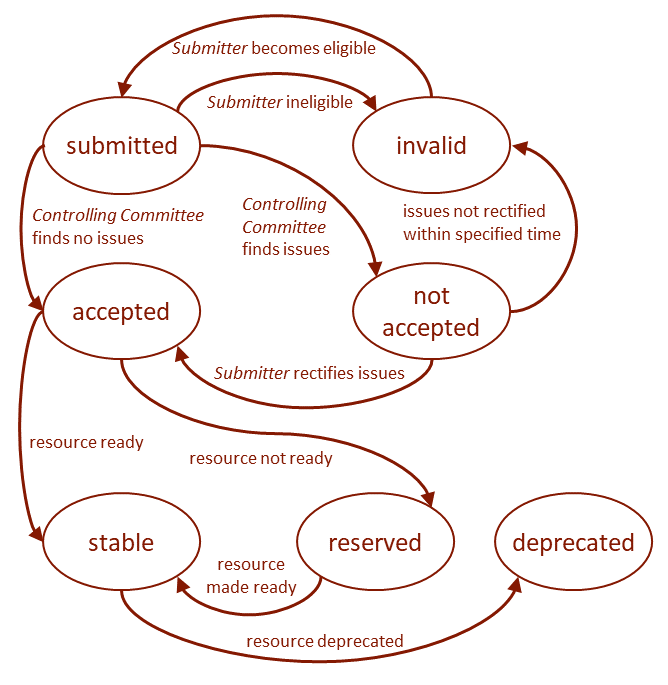
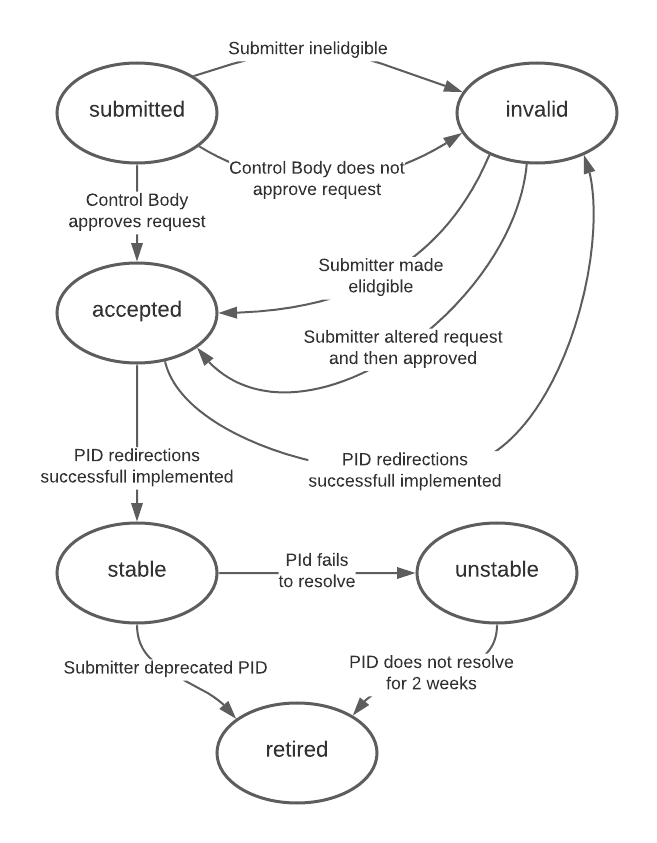
more 2.2. updates

diff --git a/PID-IRI-Guidelines-v2.2.md b/PID-IRI-Guidelines-v2.2.md
@@ -6,26 +6,27 @@
 \* <nicholas.car@surroundaustralia.com>  
 ** [www.linked.data.gov.au/contact](https://www.linked.data.gov.au/contact)
 
-## Preface
+## 1. Preface
 This document describes how the Australian Government Linked Data Working Group (AGLDWG) assess requests for and allocates persistent IRIs for Linked Data dataset, definitional resources and registers. It builds on both international public sector Linked Data IRI allocation guidance, such as the United Kingdom's "Designing URI Sets for the UK Public Sector" [[CAB-2010](#ref-CAB-2010)], and the AGLDWG's own 7+ year's experience with persistent IRI allocation.
 
-## Table of Contents
+## 2. Table of Contents
 1. [Preface](#Preface)
-2. [Changelog](#Changelog)
-3. [Conformance](#Conformance)
-4. [Introduction](#Introduction)
-5. [Persistent domain](#PersistentDomain)
-6. [IRI Registration](#PIDIRIRegistration)
-7. [Resource Types](#ResourceTypes)  
-    7.1. [Datasets](#Datasets)  
-    7.2. [Definitional Resources](#Definitional)  
-    7.3. [Top-Level Registers](#TopLevelRegisters)  
-    7.4. [Second-Level Registers](#SecondLevelRegisters)  
-8. [References](#References)
-9. [Appendix A: Resource Linked Data requirements](#app-a)
-10. [Appendix B: Resource register resource metadata](#app-b)
+2. [Table of Contents](#TableOfContents)
+3. [Changelog](#Changelog)
+4. [Conformance](#Conformance)
+5. [Introduction](#Introduction)
+6. [Persistent domain](#PersistentDomain)
+7. [IRI Registration](#PIDIRIRegistration)
+8. [Resource Types](#ResourceTypes)  
+    8.1. [Datasets](#Datasets)  
+    8.2. [Definitional Resources](#Definitional)  
+    8.3. [Top-Level Registers](#TopLevelRegisters)  
+    8.4. [Second-Level Registers](#SecondLevelRegisters)  
+9. [References](#References)
+10. [Appendix A: Resource Linked Data requirements](#app-a)
+11. [Appendix B: Resource register resource metadata](#app-b)
 
-## Changelog
+## 3. Changelog
 This version of the document contains the following changes to the 2.1 version of the *Guidelines*: 
 
 1. use of IS0 19135 [[ISO-2014](#ref-ISO-2014)] for IRI registration procedure and roles, instead of ISO 11179 [[ISO-2015](#ref-ISO-2015)]
@@ -39,7 +40,7 @@ For further context around this document and it's use, please see the AGLDWG's *
 
 * [www.linked.data.gov.au/governance](https://www.linked.data.gov.au/governance)
 
-## 1. <a id="Conformance"></a> Conformance
+## 4. <a id="Conformance"></a> Conformance
 The key words *MUST*, *MUST NOT*, *REQUIRED*, *SHOULD*, *SHOULD NOT*, *RECOMMENDED*, *MAY*, and *OPTIONAL* in this document are to be interpreted as defined in [[IETF-1997](#ref-IETF-1997)].
 
 Roles associated with this register, *Register Owner*, *Submitter* *Submitting Organization*, *Control Body*, *Register Manager*, *Registry Manager* and *Register User*, are to be interpreted as defined in the AGLDWG's 'Registry Roles Vocabulary' [[AGLDWG-2021](#ref-AGLDWG-2021)] which is an interpretation of the roles defined in [[ISO-2014](#ref-ISO-2014)], with some small extensions.
@@ -48,22 +49,22 @@ Statuses for resources in the register are *accepted*, *deprecated*, *retired*, 
 
 IRI patterns are expressed using Augmented Backus-Naur Form, as defined in [[IETF-2008](#ref-IETF-2008)].
 
-## 2. <a id="Introduction"></a>Introduction    
+## 5. <a id="Introduction"></a>Introduction    
 Government published, public sector information (PSI), usually about the things agencies are responsible for, is intended to be re-used by many, perhaps initially unknown, applications over time. This is to maximise its value to the nation and this aim is communicated in many places, such as the Productivity Commission's "Data Availability and Use" report of 2017 [[PC-2017](#ref-PC-2017)]. For this reason, it is important that elements PSI are able to be identified and accessed in consistent ways for long periods, perhaps multiple decades.
 
 Government departments and agencies often assign identifiers to many digital PSI things and non-public information resources they are responsible for - e.g. datasets, classification concepts, hospitals, equipment, client interactions. These identifiers are then used when referring to or making statements about particular things. For example, when referring to a road closure, the identifier (e.g. "M5") will be used to inform the public or when referring to a particular census Mesh Block, its Australian bureau of Statistics-issued identifier, perhaps "80006300000" will be used. These identifiers might be well known but are most often not actionable, i.e. they cannot be easily used to discover information about the thing they identify, even if it exists, in standard ways.
 
 The Australian Government Linked Data Working Group (AGLDWG) advocates the use of Linked Data [[W3C-2018](#ref-W3C-2018)] as a particular set of technologies to be used for Internet-distributed, machine-readable data and, due to this, advocates the use of Internationalized Resource Identifiers (IRIs) as identifiers for things. The use of IRIs as item identifiers greatly improves their accessibility and can also improve their endurance.
 
-### 2.1 Internationalized Resource Identifiers (IRIs)
+### 5.1 Internationalized Resource Identifiers (IRIs)
 Linked Data uses IRIs which are part of a single, global, identification system used on the World Wide Web, similar to telephone numbers in a public switched telephone network. We are all familiar with IRIs at work - often referred to by older names of *Uniform Resource Identifier* (URI) or *Uniform Resource Locator* (URL) - due to their use for addresses in browsers for web pages. IRIs are a key technology supporting Linked Data offering a generic, universal and infinitely expandable mechanism to identify *things*. In order to publish data in a Linked Data fashion, government needs to represent the identifiers they use for things using IRIs.
 
 Sir Tim Berners-Lee, who created many aspects of the World Wide Web we now take for granted, defined principles for the use of IRIs with Linked Data [[TBL-2009](#ref-TBL-2006)]. This document builds on those principles which, summarised, are:
 
-#### 2.1.1. Use HTTP IRIs
+#### 5.1.1. Use HTTP IRIs
 Addressing two of the four principles, *'use URIs'* and *'use HTTP URIs'*, governments and their agencies publishing Linked Data ***MUST*** provide HTTP IRIs as identifiers for resources, in order to support reuse and data integration/linking on the Web in a Linked Data fashion. HTTP IRIs enable IRIs to be "looked-up" or "dereferenced", which in turn provides access, via a Web browser, to  representations of the resource identified by these IRIs.
 
-#### 2.1.2. Provide a machine-readable representation of the resource identified by the IRI
+#### 5.1.2. Provide a machine-readable representation of the resource identified by the IRI
 In order to enable HTTP IRIs to be "dereferenceable", data publishers may have to set up the necessary infrastructure (e.g. DNS & HTTP servers) to serve representations or descriptions of resources (e.g. a human-readable HTML representation or a machine-readable RDF/XML representation). For a resource to be considered Linked Data, a publisher ***MUST*** publish it using RDF and ***MUST*** publish at least one machine-readable representation of it (e.g. RDF/XML, JSON-LD, Turtle) via the HTTP IRI identifying the resource.
 
 Requirement | Description | Conformance
@@ -71,12 +72,12 @@ Requirement | Description | Conformance
 <a id="req-1"></a>[Req 1] | Use HTTP IRIs for Linked Data resources | ***MUST***
 <a id="req-2"></a>[Req 2] | Provide at least one machine-readable representation in RDF at a resource's IRI. | ***MUST***
 
-#### 2.1.3 IRI persistence
+#### 5.1.3 IRI persistence
 Much thought has gone into ensuring that IRIs for things can be made to keep working for a long time, starting with their technical design to avoid specific technology dependence (addressed by [[TBL-2009](#ref-TBL-2006)] and for Linked Data use in [[W3C-2008](#ref-W3C-2008)]) and extending to the governance arrangements for them to avoid, or at least make more resilient, their social systems dependence. Principles for successful persistent identifier (PID) generation are articulated in papers such as "The challenge of ensuring persistency of identifier systems" [[CAR-2017](#ref-CAR2-17)] which, among other things, advocates for the use of organisationally-independent identifiers.
 
 Beyond confirming adherence to these principles, the AGLDWG provides instruction on how to create IRIs for certain kinds of resources according to IRI construction best practice [[W3C-2012](#ref-W3C-2012)] and also provides a government organisation-independent namespace for them to use: `linked.data.gov.au`. This namespace, an internet domain, is managed by the AGLDWG.
 
-## 3. <a id="PersistentDomain"></a>Persistent Domain
+## 6. <a id="PersistentDomain"></a>Persistent Domain
 The AGLDWG has dedicated the IRI domain `linked.data.gov.au` to IRI persistent identifiers (PIDs) for Linked Data resources. This is to be able to supply infinitely many PIDs using a domain that is not coupled to a particular agency's name or function, for example `dfat.gov.au` which is coupled to the Department of Foreign Affairs and Trade (DFAT). Agency names and functions change over time and are thus domains based on them are not persistent. The use of `linked.data.gov.au` is protected by a Memorandum of Understanding signed by the managing agency, the Digital Transformation Agency and 5 agencies interested in Linked Data [[AGLDWG-2018](#ref-AGLDWG-2018)] which came into effect in May, 2018. The MoU requires any proposed changes to the management or use of the domain to be mooted amongst the MoUs signatories.
 
 Requirement | Description | Conformance
@@ -89,7 +90,7 @@ The AGLDWG maintains a public register of requests for PIDs within `linked.data.
 
 * [catalogue.linked.data.gov.au](https://catalogue.linked.data.gov.au)
 
-### 3.1 Previously used domains
+### 6.1 Previously used domains
 The AGLDWG maintains two legacy persistent domains:
 
 1. `environment.data.gov.au`
@@ -97,23 +98,23 @@ The AGLDWG maintains two legacy persistent domains:
 
 These two domains contains persistent identifiers minted in 2013 - 2018. Resources allocated PIDs within them appear in the resource register ([catalogue.linked.data.gov.au](http://catalogue.linked.data.gov.au)) and will be maintained indefinitely, however no new PIDs will be allocated using these legacy domains.
 
-### 3.1 Test domain
+### 6.2 Test domain
 The AGLDWG maintains a dedicated testing domain, `test.linked.data.gov.au`. *Submitting Organizations* (see role definition below) may request use of this domain to test redirection mechanics for PID before seeking a PID allocation using `linked.data.gov.au`.
 
-### 3.2 Other domains
+### 6.3 Other domains
 The AGLDWG maintains further subdomains of `linked.data.gov.au` for operational reasons such as website hosting (`www.linked.data.gov.au`) and resource cataloguing (`catalogue.linked.data.gov.au`). These domains, while maintained by the AGLDWG are not to be considered persistent.
 
-## 4. <a id="PIDRegistration"></a>PID Registration
+## 7. <a id="PIDRegistration"></a>PID Registration
 Due to the central management by the AGLDWG of the `linked.data.gov.au` resource and its requirement to be shared among many agencies, PIDs allocated using it need to be registered to avoid collisions (agencies wanting the same PIDs for different things) and also anonymous orphans (PIDs once registered which become non-functional and for which ownership information is lost). Previous approaches to PID allocation by the AGLDWG that did not require registration resulted in ungoverned PIDs.
 
 The AGLDWG notes item registration is both commonplace for shared government resources (viz. registration of datasets within [data.gov.au](https://data.gov.au)) and also for IRI-based identifiers (viz. [purl.org](http://purl.org) and [w3id.org](https://w3id.org/)).
 
 The AGLDWG requires all allocated PIDs to be registered provides guidance below on what types of PIDs may be registered, and the process for registration, including information required from registrants.
 
-Registration processes (Section 6.2, 7.2 & 8.2 below) follow those of "ISO 19135 Geographic information — Procedures for item registration ISO/DIS 19135-1",[[ISO-2014](#ref-ISO-2014)] with the assignment of resource status of *accepted* (see Section 4.3) being the necessary and sufficient criteria for the technical implementation of an IRI redirection for the PID.
+Registration processes (Section 6.2, 7.2 & 8.2 below) follow those defined in "ISO 19135 Geographic information — Procedures for item registration ISO/DIS 19135-1", [[ISO-2014](#ref-ISO-2014)] with the assignment of resource status of *accepted* (see Section 4.3) being the necessary and sufficient criteria for the technical implementation of an IRI redirection for the PID.
 
-### 4.1 Registration roles
-People requesting PIDs are *Submitters*, acting on behalf of an organisation, fullfilling the role of a *Submitting Organization*. These organisations are often, but do not have to be, members organisations of the AGLDWG. See [www.linked.data.gov.au/join](https://www.linked.data.gov.au/join) for more information about joining the AGLDWG.
+### 7.1 Registration roles
+People requesting PIDs are *Submitters*, acting on behalf of an organisation which fullfills the role of a *Submitting Organization*. These organisations are often, but do not have to be, members organisations of the AGLDWG. See [www.linked.data.gov.au/join](https://www.linked.data.gov.au/join) for more information about joining the AGLDWG.
 
 The AGLDWG as a whole plays the role of *Register Owner* with the *Register* being the list of all PIDs requested and allocated for `linked.data.gov.au`. The co-chairs of the AGLDWG play the role of *Register Manager* and perform most register management actions on behalf of the AGLDWG. A *Control Body* consisting of AGLDWG member organisation's representatives conduct reviews of PID requests, as delegated by the co-chairs. The technical management of the register and the associated IRI redirection system is conducted by AGLDWG members in the role of *Registry Manager* at the behest of the *Registery Manager*.
 
@@ -132,21 +133,16 @@ Role | Group
 *Submitter* | persons acting on behalf of a *Submitting Organization*
 *Register User* | Everyone not listed above using the Register
 
-### 4.2 Registration workflow
-The processing of items for which PIDs are requested follow workflows. The general workflow for item processing is given in Figure 1.
+### 7.2 Registration workflows
 
-![](workflow-approval.png)  
-**Figure 1**: Workflow diagram showing the general workflow for the approval processing of PID IRI allocation requests. Approval statuses are marked.
+The processing of items for which PIDs are requested follow workflows, as do other actions such as to move a Registered Item from *stable* to another state. 
 
-A more detailed workflow for resource review is given in Figure 2.
+#### 7.2.1 Item Registration Workflow
 
-![](workflow-review.png)  
-**Figure 2**: Workflow diagram showing detailed steps within the resource review workflow. Approval statuses are marked.
+The Item Registration Workflow for registered item request processing is given in Figure 1.
 
-A more detailed workflow showing PID IRI implementation is given in Figure 3.
-
-![](workflow-implementation.png)  
-**Figure 3**: Workflow diagram showing detailed steps within the PID IRI implementation workflow. Approval statuses are marked.
+<a href="workflow-approval.png"><img src="workflow-approval.png" style="width: 50%" /></a><br />
+**Figure 1**: Workflow diagram showing the general workflow for the processing of PID IRI allocation requests which usually leads to item registration. Approval statuses are marked. The previous, ISO11179-based version of this workflow for Guidlines v1.1 and previous is retained in the file [workflow-approval-old.png](workflow-approval-old.png).
 
 Notes on specific workflows per resource type are given below in Sections 6 - 9.
 
@@ -154,13 +150,29 @@ Requirement | Description | Conformance
 ---|---|---
 <a id="req-4"></a>[Req 4] | Submitters requesting PIDs must follow the AGLDWG's PID IRI allocation workflows and submit their requests to the Linked Data PID Register | ***MUST***
 
-### 4.3 Approval status
-An item's acceptance for PID allocation is indicated with a *status*, terms for which are taken from the Registry Ontology's status vocabulary. The original publication of this vocabulary is [[REY-2012](#ref-REY-2012)] and the AGLDWG has republished it at [[AGLDWG-2018b](#ref-AGLDWG-2018)]) to enable better visibility. The status vocabulary term hierarchy is:
+#### 7.2.2 Item Deprecation Workflow
+
+The Item Deprecation Workflow for registered item request processing is described as follows:
+
+* IF a registered PID with status*stable* failes to resolve during a routine resolution test
+* THEN
+   * the PID *submitter* is notified
+   * a 2 week countdown is initiated
+   * the PID's status is changed to *unstable*
+
+* IF a PID fails to resolve for a 2 week period
+* THEN
+    * the PID *submitter* is notified
+    * the PID's status is changed to *retired*
+
+### 7.3 Registered Item Status
+An item's status within the Register is indicated with a *status*, terms for which are mostly taken from the Registry Ontology's status vocabulary. The original publication of this vocabulary is [[REY-2012](#ref-REY-2012)] and the AGLDWG has republished it at [[AGLDWG-2018b](#ref-AGLDWG-2018)]) to enable better visibility. The status vocabulary term hierarchy is:
 
 * [accepted](https://linked.data.gov.au/def/status/accepted)
   * [deprecated](https://linked.data.gov.au/def/status/deprecated)
     * [retired](https://linked.data.gov.au/def/status/retired)
     * [superseded](https://linked.data.gov.au/def/status/superseded)
+    * [unstable](https://linked.data.gov.au/def/status/unstable)
   * [valid](https://linked.data.gov.au/def/status/valid)
     * [experimental](https://linked.data.gov.au/def/status/experimental)
     * [stable](https://linked.data.gov.au/def/status/stable)
@@ -169,17 +181,17 @@ An item's acceptance for PID allocation is indicated with a *status*, terms for 
   * [reserved](https://linked.data.gov.au/def/status/reserved)
   * [submitted](https://linked.data.gov.au/def/status/submitted)
 
- A state diagram of resources' statuses is given in Figure 4 below.
+ A state diagram of resources' statuses is given in Figure 2 below.
 
 ![](status-states.png)  
-**Figure 4**: State diagram showing status states of a resource and actions causing state change.  
+**Figure 2**: State diagram showing status states of a resource and actions causing state change.  The Status States Diagram for Guidlines v1.1 and previous is retained in the file [status-states-old.png](status-states-old.png).
 
-Following Figure 4, it can be seen that minimal successful path for a resource from first PID IRI request to operational implementation is:
+Following Figure 2, it can be seen that minimal successful path for a resource from first PID IRI request to operational implementation is:
 
 `submitted -> accepted -> stable`
 
 
-## 5. <a id="ResourceTypes"></a>Resource Types
+## 8. <a id="ResourceTypes"></a>Resource Types
 Presently the AGLDWG recognises four types of items for which PIDs may be requested:
 
 1. Dataset
@@ -189,16 +201,16 @@ Presently the AGLDWG recognises four types of items for which PIDs may be reques
 
 There is an additional resource type, *Organisation*, for which IRIs are created automatically - to identifier AGLDWG member organisations.
 
-More types of items may be added in the future. Such an addition will require this document to be updated.
+More types of items may be added in the future. Such additions would require this document to be updated.
 
 IRIs for Datasets are created within the *Dataset Register*, for definitional resources within the *Def Register* and for Top-Level Register items within the *Top-Level Register*. This Top-Level Register contains the Dataset Register, the Def Register and the Organisations Register as subregisters. Second-Level Register items are created as registers within individual Datasets or as modules within Top-Level Registers, as detailed in [Section 9](#9-second-level-register-IRIs).
 
 The next four sections of this document describe how IRIs for the four type of items for which they may be requested are formulated and the processes to apply for them.
 
-#### NOTE types implemented 
-_After 2+ years of operations of these *Guidelines* in their present form, from pre-2018 to 2020, no allocations of IRIs for resource types other than Dataset or Definitional Item have been made. This does not mean that allocations for other resource types cannot be made but that the community has so far not found pressing use for resources other than Dataset or Definitional Item. The Top-Level Register guidance here is retained without afferming its expected use: it is a technical possibility with international precedence for use (see [[CAB-2010](#ref-CAB-2010)]) and the AGLDWG may, or may not, choose to allow Top-Level Register registration in the future._
+> NOTE: types implemented  
+> _After 2+ years of operations of these *Guidelines* in their present form, from pre-2018 to 2020, no allocations of IRIs for resource types other than Dataset or Definitional Item have been made. This does not mean that allocations for other resource types cannot be made but that the community has so far not found pressing use for resources other than Dataset or Definitional Item. The Top-Level Register guidance here is retained without afferming its expected use: it is a technical possibility with international precedence for use (see [[CAB-2010](#ref-CAB-2010)]) and the AGLDWG may, or may not, choose to allow Top-Level Register registration in the future._
 
-### 7.1. <a id="Datasets"></a>Datasets
+### 8.1. <a id="Datasets"></a>Datasets
 Dataset can have IRIs that identify the dataset as a whole. These IRIs are somewhat analogous to the IRIs used to indicate datasets in the [data.gov.au](https://data.gov.au) catalogue (e.g. <https://data.gov.au/dataset/rottnest-ferries-underway-temperature> indicating the "Rottnest Ferries Underway Temperature" dataset) but they have more requirements placed on them in order to perform more functions, specifically Linked Data functions. The main such function concerns dataset-specific namespaces: where IRIs for datasets in `data.gov.au` resolve to a landing page about the dataset and give access to its metadata and links to distributions of it, `linked.data.gov.au` dataset IRIs both link to metadata and also act as a top-level register for items within the dataset. This allows, `linked.data.gov.au` dataset IRIs to be used as dataset-specific namespace domains which can be used to create unique IRIs for sub-dataset items. For example, a Linked Data version of the "Rottnest Ferries Underway Temperature" dataset could have a IRI for each temperature observation which, if delivered at `linked.data.gov.au`, could be something like `https://linked.data.gov.au/dataset/rot-ferry/observation/0026` for an *observation* identified by *0026*. The particular pattern used within `https://linked.data.gov.au/dataset/rot-ferry...` is up to the dataset IRI submitter to determine.
 
 Dataset producers are free to choose the form that their sub-dataset item IRIs take (so-called *hash* or *slash* IRIs (see [[W3C-2016](#ref-W3C-2016)]) however they must deliver both the top-level register of their dataset and all visible subcomponents of it according to Linked Data principles.
@@ -209,7 +221,7 @@ Requirement | Description | Conformance
 
 The tests for what constitutes a valid Linked Data dataset are articulated in [Appendix A](#app-a).
 
-#### 7.1.1. Dataset PID IRI pattern
+#### 8.1.1. Dataset PID IRI pattern
 The pattern for Dataset PIDs is:
 
 ```
@@ -242,7 +254,7 @@ Where the "gnaf" dataset, using slash IRIs for Address subelement "GA1234" could
 
 `https://linked.data.gov.au/dataset/gnaf/address/GA1234`
 
-#### 7.1.2. Registration Process
+#### 8.1.2. Registration Process
 This process follows the general process as outlined in Figure 1.
 
 * *Submitter* must be eligible, as per Req 6
@@ -269,16 +281,16 @@ Requirement | Description | Conformance
 <a id="req-6"></a>[Req 6] | For a particular PID IRI to be allocated, the request for that allocation must be the first request for it that is found eligible | ***MUST***
 
 
-### 7.1.3. Required Metadata
+### 8.1.3. Required Metadata
 Metadata to be supplied for the registration of a Linked Data dataset, and thus the allocation of a IRI for it, must constitute a valid record for a dataset within the AGLDWG Linked Data PID Register. Record validity is determined using the process outlined in [Appendix B](#app-b).
 
 Entries in the AGLDWG Linked Data PID Register are public from submission onwards.
 
 
-### 7.2. <a id="Definitional"></a>Definitional Resources
+### 8.2. <a id="Definitional"></a>Definitional Resources
 Definitional Resources are Linked Data vocabularies, vocabulary terms, ontologies, ontology terms and potentially other, Linked Data, data model items. Currently, as per Datasets, IRI patterning is provided by the AGLDWG at the whole-of-resource level (i.e. whole ontology or whole vocabulary) with IRIs for subcomponents such as vocabulary terms or ontology class definitions to be implemented by the definitional resource managers, at their discretion.
 
-#### 7.2.1. Definitional resource PID IRI pattern
+#### 8.2.1. Definitional resource PID IRI pattern
 The pattern for Definitional PIDs is:
 
 ```
@@ -319,7 +331,7 @@ or, if the `StreetType` codes were modularised within the ontology perhaps:
 
 `https://linked.data.gov.au/def/gnaf/code/StreetTypes/Avenue`
 
-#### 7.2.2. Registration Process
+#### 8.2.2. Registration Process
 This process follows the general process as outlined in Figure 1.
 
 * *Submitter* must be eligible, as per Req 6
@@ -341,13 +353,13 @@ This process follows the general process as outlined in Figure 1.
   * *Submitter* notified
 * *Submitting Organization* is free to use allocated IRIs
 
-#### 7.2.3. Required Metadata
+#### 8.2.3. Required Metadata
 Metadata to be supplied for the registration of a Linked Data definitional resource, and thus the allocation of an IRI for it, must constitute a valid record for such within the AGLDWG Linked Data PID Register. Record validity is determined using the process outlined in [Appendix B](#app-b).
 
 Entries in the AGLDWG Linked Data PID Register are public from submission onwards.
 
 
-### 7.3. <a id="TopLevelRegisters"></a>Top-Level Register IRIs
+### 8.3. <a id="TopLevelRegisters"></a>Top-Level Register IRIs
 Top-Level Registers are an index of individual Linked Data objects, promoted to the 'top' of `linked.data.gov.au` for high visibility. Such registers are formulated using very basic information:
 
 * the identity of the register itself (given via its IRI)
@@ -374,10 +386,10 @@ A multi-class example:
 
 A *Submitting Organization* wishes a top-level register for items of class A and class B. There is some real-world logic making such an allocation sensible so the *Submitting Organization* requests the top-level register `linked.data.gov.au/classAB/` which is approved. A better request though would be for a register of `linked.data.gov.au/classC/` where class C is a superclass of both class A and B.
 
-##### 7.3.0.1. Use and non-use of Register IRI for contained items
+##### 8.3.0.1. Use and non-use of Register IRI for contained items
 A *Submitting Organization* may request a top-level register such as `linked.data.gov.au/classA/` and then present items within that class with IRIs such as `linked.data.gov.au/classA/1`, `linked.data.gov.au/classA/2` etc. but may also present items with un-related IRIs within the register as long as the class of item (discoverable via de-referenceable RDF) accords with the class(es) for which the register was allocated. The AGLDWG may check the classes of items within a top-level register using automated means.
 
-##### 7.3.0.2. Subregisters
+##### 8.3.0.2. Subregisters
 If a *Submitting Organization* wishes to use a top-level register already allocated for new items in accordance with the class(es) for with the register was allocated, they have two options:
 
 1. arrange with the original *Submitting Organization* to have their items included in the register
@@ -385,7 +397,7 @@ If a *Submitting Organization* wishes to use a top-level register already alloca
 
 Modules requested within a top-level register will be presented as sub-registers of the Top-Level Register. Management of such is the responsibility of the Top-Level Register's manager - the original *Submitting Organisation* who was allocated the IRI for it, not the AGLDWG.
 
-#### 7.3.1. Top-Level Register IRI pattern
+#### 8.3.1. Top-Level Register IRI pattern
 The pattern for allocating Top-Level Register IRIs is:
 
 ```
@@ -414,7 +426,7 @@ modularised-register-IRI = register-IRI "/" module-id
 module-id = *(ALPHA / DIGIT / "-")
 ```
 
-#### 7.3.2. Registration Process
+#### 8.3.2. Registration Process
 This process follows the general process as outlined in Figure 1.
 
 * *Submitter* must be eligible, as per Req 6
@@ -434,13 +446,13 @@ This process follows the general process as outlined in Figure 1.
   * *Submitter* notified
 * *Submitting Organization* is free to use allocated IRIs
 
-#### 7.3.3. Required Metadata
+#### 8.3.3. Required Metadata
 Metadata to be supplied for the registration of a Linked Data top-level register, and thus the allocation of a IRI for it, must constitute a valid record for such within the AGLDWG Linked Data PID Register. Record validity is determined using the process outlined in [Appendix B](#app-b).
 
 Entries in the AGLDWG Linked Data PID Register are public from submission onwards.
 
 
-### 7.4. <a id="SecondLevelRegisters"></a>Second-Level Register IRIs
+### 8.4. <a id="SecondLevelRegisters"></a>Second-Level Register IRIs
 At this stage, the AGLDWG recognises there are two sorts of Second-level Registers for which IRIs may be allocated:
 
 1. subregisters of a Dataset
@@ -448,7 +460,7 @@ At this stage, the AGLDWG recognises there are two sorts of Second-level Registe
 
 In both cases, the IRI arrangements for the Second-Level Register IRIs need to be made by the dataset or Top-Level Register manager, however the AGLDWG can assist with implementing redirects for these subregisters within the patterning assigned to a Dataset or Top-Level Register, if requested. Such pattern implementation will follow the workflow given in Figure 3 but will not result in any change to the relevant allocation status of the Dataset or Top-Level Register.
 
-## 8. <a id="References"></a>References
+## 9. <a id="References"></a>References
 [AGLDWG-2018] <a name="ref-AGLDWG-2018"></a>Australian Government Linked Data Working Group "Governance", web page, 2018. <https://www.linked.data.gov.au/governance>, accessed 2018-07-27.
 
 [AGLDWG-2018b] <a name="ref-AGLDWG-2018b"></a>Australian Government Linked Data Working Group, "Status Vocabulary". SKOS Vocabulary, 22 July 2018. <http://test.linked.data.gov.au/def/status>, accessed 2018-07-22.
@@ -499,10 +511,10 @@ In both cases, the IRI arrangements for the Second-Level Register IRIs need to b
 
 [W3C-2018] <a name="ref-W3C-2018"></a> World Wide Web Consortium, "Linked Data", web page, 2018. <https://www.w3.org/standards/semanticweb/data>, accessed 2018-07-27.
 
-## 9. <a id="app-a"></a>Appendix A: Resource Linked Data requirements
+## <a id="app-a"></a>Appendix A: Resource Linked Data requirements
 Resources for which the AGLDWG issues PIDs must be valid Linked Data. Specific requirements for each type of resource are listed below.
 
-#### Datasets:
+### A.1. Datasets
 1. ***MUST*** present a landing page for the dataset in RDF
   * the RDF must pass basic RDF syntactic validation
   * the issued PID IRI must be able to resolve to at least one standard serialisation of RDF which the AGLDWG takes to be either RDF/XML, Turtle, JSON-LD, N-triples or TriG using standard HTTP content negotiation which, for AGLDWG-hosted resources, will be implemented automatically  
@@ -535,7 +547,7 @@ Requirement | Function name | Purpose
 5 | `dataset_optional_5` | resolves the access IRI of the resource, looks for an HTTP 200 response to a request using an `Accept` header seeking HTML & RDF formats, seeks basic metadata elements such as Dublin Core Terms
 
 
-#### Definitional resources:
+### A.2 Definitional resources
 1. ***MUST*** be presented in the Resource Description Framework, RDF [[W3C-2014](#ref-W3C-2014)]
   * the RDF must pass basic RDF syntactic validation
   * the issued PID IRI must be able to resolve to at least one standard serialisation of RDF which the AGLDWG takes to be either RDF/XML, Turtle, JSON-LD, N-triples, N-quads or TriG using standard HTTP content negotiation which, for AGLDWG-hosted resources, will be implemented automatically  
@@ -566,7 +578,7 @@ Requirement | Function name | Purpose
 5 | `dataset_optional_5` | resolves the access IRI of the resource, looks for an HTTP 200 response to a request using an `Accept` header seeking HTML & RDF formats, seeks basic metadata elements such as Dublin Core Terms
 
 
-## 10. <a id="app-b"></a>Appendix B: Resource register item metadata
+## 11. <a id="app-b"></a>Appendix B: Resource register item metadata
 Resources submitted to the AGLDWG for IRI allocation are considered items submitted to a registry and are required to have metadata supplied according to the Registry Ontology [[REY-2012](#ref-REY-2012)]. This enables resource management, cataloguing and delivery of registry information as Linked Data. Entries in the AGLDWG Linked Data PID Register ([catalogue.linked.data.gov.au](http://catalogue.linked.data.gov.au)), which are required for PID IRI allocation, can only be saved when valid metadata is entered. Entry metadata is also changed as the PID request that the record represents passes through an approval workflow. The register uses simple labels in its forms to indicate elements and a mapping for each label and the equivalent formal predicates in Registry Ontology, and their required cardinality, are given in Table 2.
 
 **Table 2**: AGLDWG Linked Data PID Register metadata elements for register items, their Registry Ontology equivalents, cardinalities and notes. The Registry Ontology element prefixes are:
